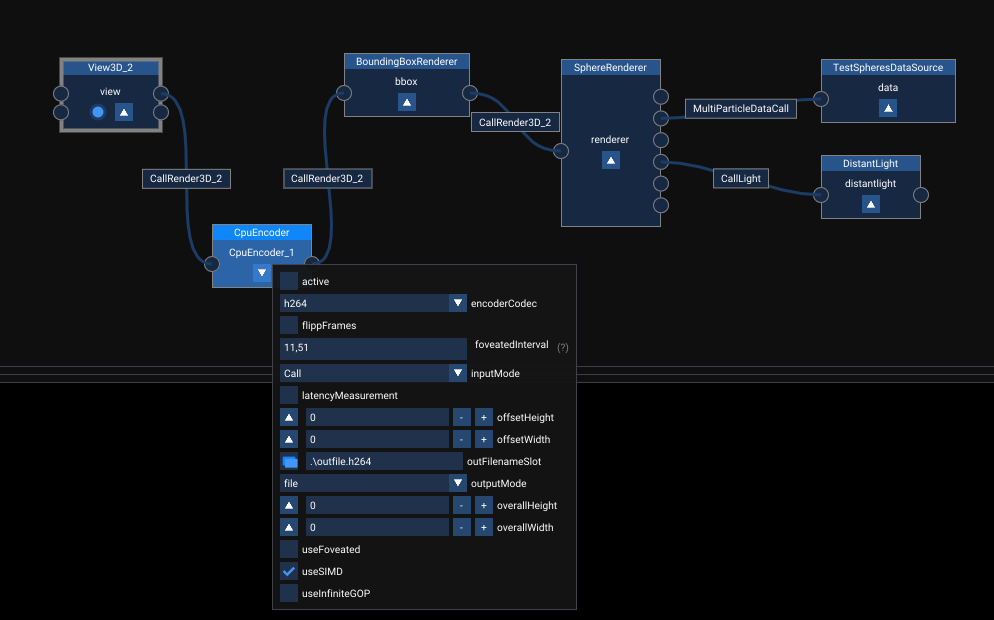
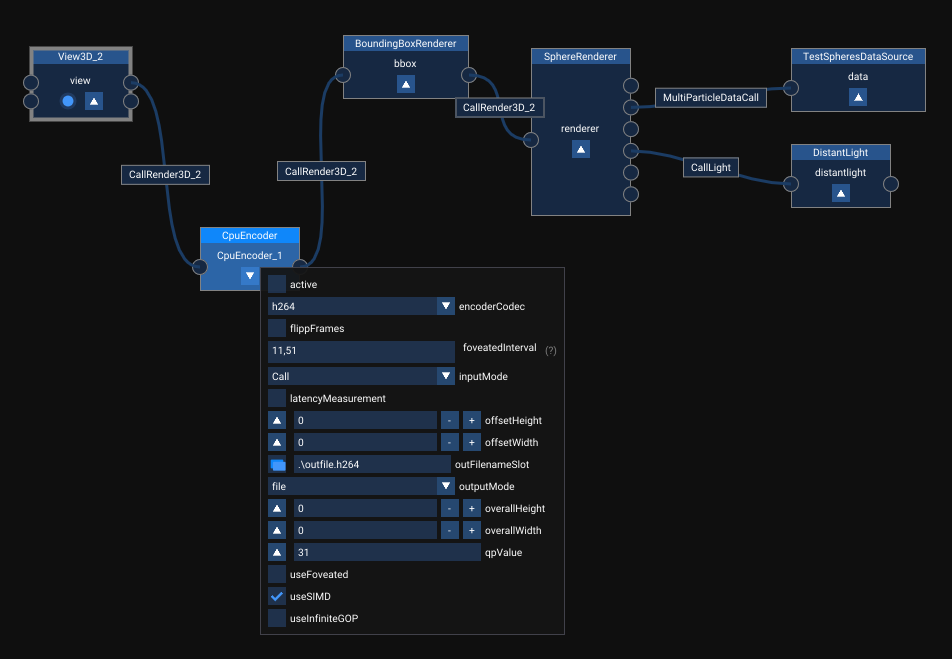
Updated the Readme
Added further hints about the usage of different slots

Changed region(s): [[0.0, 0.0306, 1.0, 0.9806]]

diff --git a/plugins/encoder/Readme.md b/plugins/encoder/Readme.md
@@ -45,5 +45,9 @@ If MPI is used make sure that the input is interleaved BGR (BGRBGRBGR...BGR) val
 ## Hints
 
 The frames copied from OpenGL are upside down, the `CpuVideoEncoder` can flip the image, which takes between 0.7ms and 2.5ms with the median being 1.2ms (tested on an AMD Ryzen 7 1700X).
+The QP value can be in the range of 1 to 51, with 1 producing the best and 51 producing the worst image quality.
+The foveated interval determines the minimum and maximum QP value used inside of the foveated regions.
+The offsetHeight, offsetWidth, overallHeight and overallWidth must be 0 in a non tiled environment.
+They are required for the foveated encoding so that the encoder knows which part of the (tiled) display it is responsible for.
 Only use an Infinite GOP length if the encoded bitstream is not saved to a file, as this setting will not produce key frames and therefore making it impossible to seek in the resulting video.
 Foveated encoding uses a moving region of interest to improve the compression (see F. Frieß, M. Braun, V. Bruder, S. Frey, G. Reina, and T. Ertl. Foveated encoding for large high-resolution displays. IEEE Transactions on Visualization and Computer Graphics, 27(2):1850–1859, 2021. doi: 10.1109/TVCG.2020.3030445).
